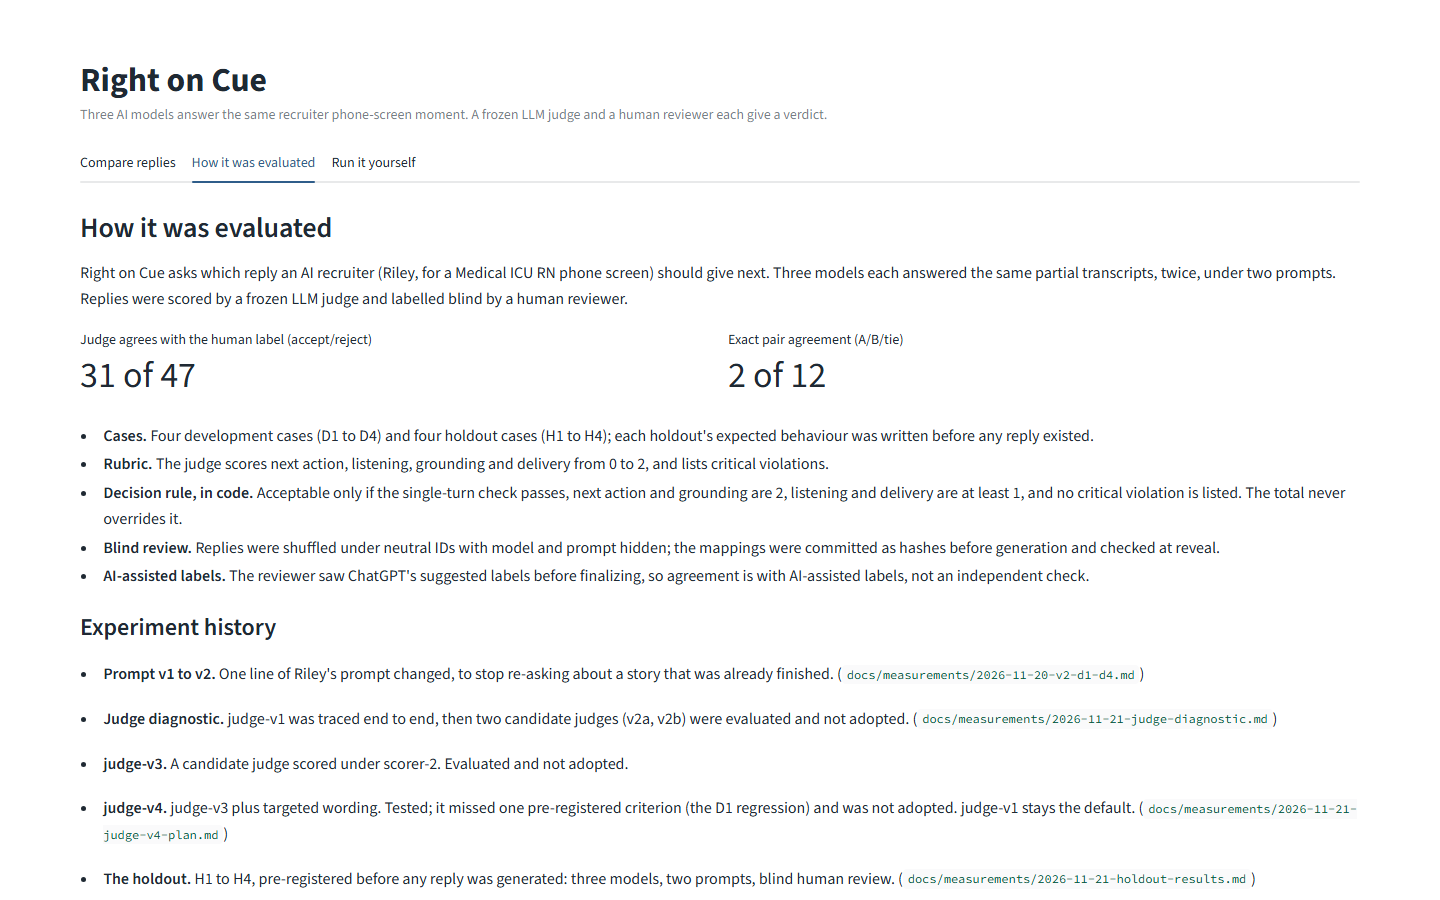
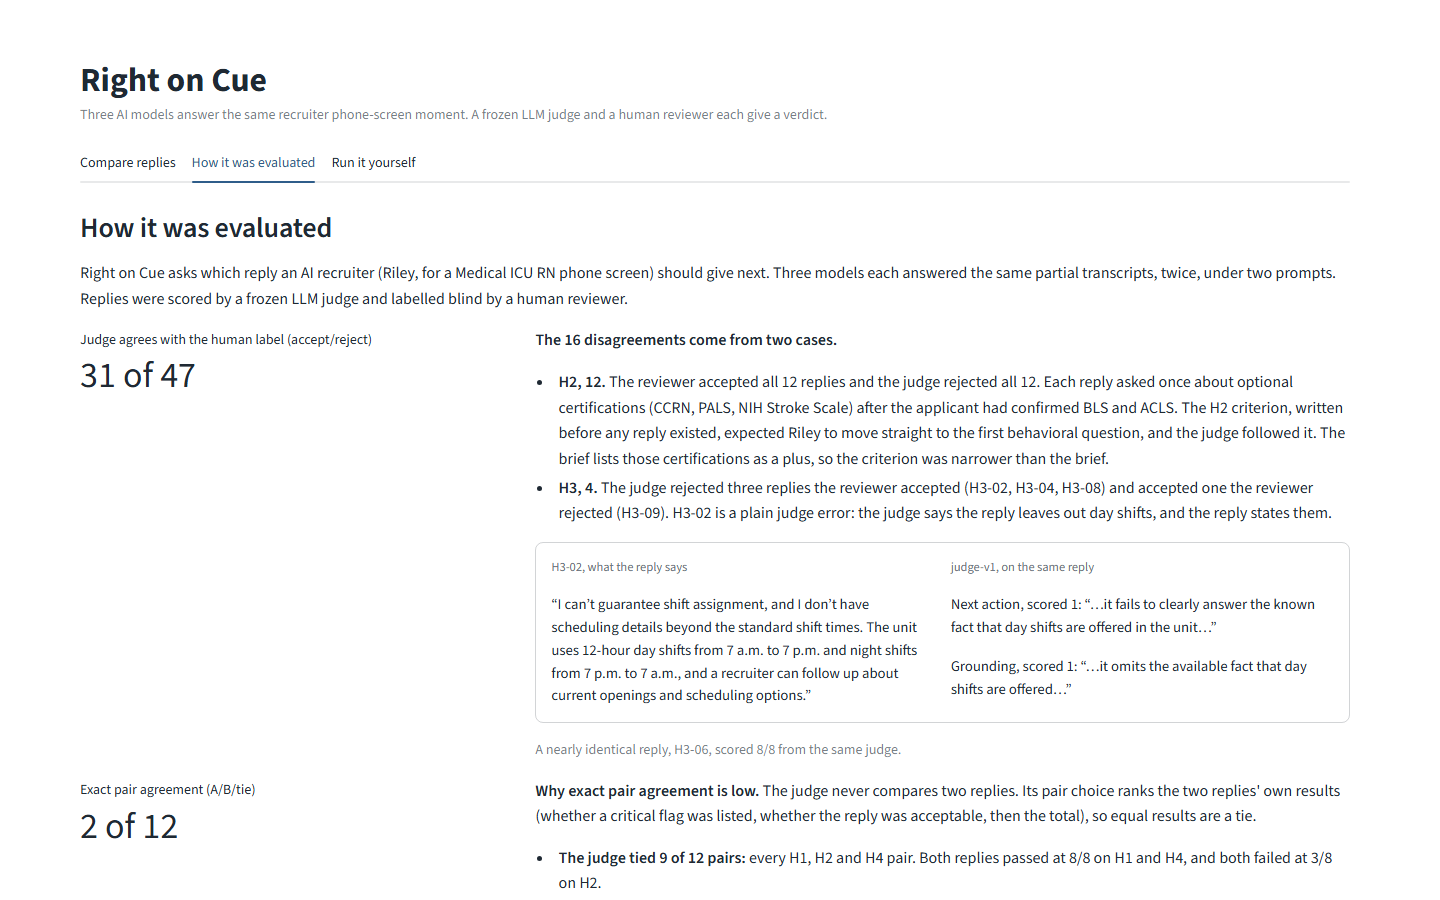
Explain each agreement metric in plain language, and what I would change next
"How it was evaluated" and the report now put an explanation beside each
headline figure. The figures themselves stay at 31 of 47 and 2 of 12.

- 31 of 47: the 16 disagreements come from two cases. H2 accounts for 12:
  each reply asked once about optional certifications, and the frozen H2
  criterion expected a move straight to the behavioral question. H3
  accounts for 4: three rejections of accepted replies and one acceptance
  of a rejected reply. H3-02 is shown as a plain judge error, with the reply
  and judge-v1's rationale quoted side by side. A nearly identical reply,
  H3-06, scored 8/8.
- 2 of 12: the judge's pair choice ranks each reply's own result, so it
  tied 9 of 12 pairs (every H1, H2 and H4 pair). The reviewer tied once
  (P06). The two matches are that tie and P09.
- The AI-assisted disclosure sits directly under the figures, and the
  existing bullet is kept.
- "What I would change next": a future rubric should accept either moving
  on or asking once about unmentioned optional certifications, and still
  fail a re-ask of a settled fact. It is labelled a proposal that needs
  fresh, independently labelled examples.

Every count and quote comes from the committed holdout records, and
tests/test_app.py derives them from those records. The first screen is
unchanged. Screenshots: methodology captures regenerated (desktop
1440x900, mobile 390x844 at 3x), plus full captures of the agreement
section (desktop-agreement.png, mobile-agreement.png).

Changed region(s): [[0.0625, 0.3733, 0.9375, 0.9956], [0.0625, 0.6844, 0.1875, 0.7156]]

diff --git a/app.py b/app.py
@@ -274,11 +274,84 @@ HISTORY: list[tuple[str, str, str | None]] = [
         "docs/measurements/2026-11-21-holdout-results.md",
     ),
 ]
+# Plain-language notes beside the two agreement metrics. Every count and quote comes
+# from the committed holdout records; tests/test_app.py checks them against those records.
+LABEL_AGREEMENT_NOTE = (
+    "**The 16 disagreements come from two cases.**\n"
+    "- **H2, 12.** The reviewer accepted all 12 replies and the judge rejected all 12. "
+    "Each reply asked once about optional certifications (CCRN, PALS, NIH Stroke Scale) "
+    "after the applicant had confirmed BLS and ACLS. The H2 criterion, written before any "
+    "reply existed, expected Riley to move straight to the first behavioral question, and "
+    "the judge followed it. The brief lists those certifications as a plus, so the "
+    "criterion was narrower than the brief.\n"
+    "- **H3, 4.** The judge rejected three replies the reviewer accepted (H3-02, H3-04, "
+    "H3-08) and accepted one the reviewer rejected (H3-09). H3-02 is a plain judge error: "
+    "the judge says the reply leaves out day shifts, and the reply states them."
+)
+H3_02_REPLY = (
+    "I can’t guarantee shift assignment, and I don’t have scheduling details beyond the "
+    "standard shift times. The unit uses 12-hour day shifts from 7 a.m. to 7 p.m. and night "
+    "shifts from 7 p.m. to 7 a.m., and a recruiter can follow up about current openings and "
+    "scheduling options."
+)
+H3_02_JUDGE = (  # (dimension and score, an exact excerpt of judge-v1's rationale)
+    ("Next action, scored 1", "it fails to clearly answer the known fact that day shifts are offered in the unit"),
+    ("Grounding, scored 1", "it omits the available fact that day shifts are offered"),
+)
+H3_02_TWIN = "A nearly identical reply, H3-06, scored 8/8 from the same judge."
+PAIR_AGREEMENT_NOTE = (
+    "**Why exact pair agreement is low.** The judge never compares two replies. Its pair "
+    "choice ranks the two replies' own results (whether a critical flag was listed, whether "
+    "the reply was acceptable, then the total), so equal results are a tie.\n"
+    "- **The judge tied 9 of 12 pairs:** every H1, H2 and H4 pair. Both replies passed at "
+    "8/8 on H1 and H4, and both failed at 3/8 on H2.\n"
+    "- **The reviewer tied once** (P06, an H2 pair) and chose a reply in the other 11.\n"
+    "- **The 2 exact matches** are that shared tie (P06) and one H3 pair (P09). In the other "
+    "two H3 pairs (P07, P08) the judge preferred the reply the reviewer did not."
+)
+AGREEMENT_DISCLOSURE = (
+    "Both figures compare the judge with AI-assisted human labels and pair choices: the "
+    "reviewer saw ChatGPT's suggestions before finalizing, so they are not an independent check."
+)
+CHANGE_NEXT = (
+    "When the applicant has already confirmed the required certifications, a future rubric "
+    "should accept either moving on to the behavioral questions or asking once about "
+    "optional certifications the applicant hasn't mentioned. Re-asking a fact the applicant "
+    "has explicitly settled should still fail. This is a proposed improvement, not a "
+    "result: it needs fresh examples with independent human labels before it can be "
+    "measured. The published measurements stay at 31 of 47 and 2 of 12."
+)
 DOCS = [
     ("Report", "docs/report.md"),
     ("Holdout results", "docs/measurements/2026-11-21-holdout-results.md"),
     ("judge-v1 known limits", "docs/judge-v1-known-limits.md"),
 ]
+
+
+def render_agreement(h: review.Headline) -> None:
+    """Each agreement metric with its plain-language explanation beside it."""
+    metric_col, note_col = st.columns([1, 2], gap="large")
+    metric_col.metric(
+        "Judge agrees with the human label (accept/reject)",
+        f"{h.individual_agree} of {h.individual_evaluable}",
+    )
+    with note_col:
+        st.markdown(LABEL_AGREEMENT_NOTE)
+        with st.container(border=True):
+            reply_col, judge_col = st.columns(2)
+            with reply_col:
+                para("H3-02, what the reply says", size="0.78rem", muted=True)
+                para(f"“{H3_02_REPLY}”", size="0.92rem")
+            with judge_col:
+                para("judge-v1, on the same reply", size="0.78rem", muted=True)
+                for label, quote in H3_02_JUDGE:
+                    para(f"{label}: “…{quote}…”", size="0.92rem")
+        st.caption(H3_02_TWIN)
+    metric_col, note_col = st.columns([1, 2], gap="large")
+    metric_col.metric("Exact pair agreement (A/B/tie)", f"{h.pair_exact} of {h.pair_evaluable}")
+    with note_col:
+        st.markdown(PAIR_AGREEMENT_NOTE)
+    st.caption(AGREEMENT_DISCLOSURE)
 
 
 def render_method() -> None:
@@ -294,12 +367,7 @@ def render_method() -> None:
     except (OSError, ValueError, KeyError) as exc:
         st.error(f"Headline results could not be loaded: {exc}")
     else:
-        m1, m2 = st.columns(2)
-        m1.metric(
-            "Judge agrees with the human label (accept/reject)",
-            f"{h.individual_agree} of {h.individual_evaluable}",
-        )
-        m2.metric("Exact pair agreement (A/B/tie)", f"{h.pair_exact} of {h.pair_evaluable}")
+        render_agreement(h)
     st.markdown(
         "- **Cases.** Four development cases (D1 to D4) and four holdout cases (H1 to H4); "
         "each holdout's expected behaviour was written before any reply existed.\n"
@@ -313,6 +381,8 @@ def render_method() -> None:
         "- **AI-assisted labels.** The reviewer saw ChatGPT's suggested labels before "
         "finalizing, so agreement is with AI-assisted labels, not an independent check."
     )
+    st.markdown("#### What I would change next")
+    st.markdown(CHANGE_NEXT)
     st.markdown("#### Experiment history")
     for title, text, doc in HISTORY:
         st.markdown(f"- **{title}.** {text}" + (f" (`{doc}`)" if doc else ""))

diff --git a/tests/test_app.py b/tests/test_app.py
@@ -143,6 +143,66 @@ def test_method_tab_shows_headline_numbers_and_history() -> None:
     assert [m.value for m in at.metric] == ["31 of 47", "2 of 12"]
     text = body(at)
     assert "Experiment history" in text and "judge-v4" in text and "not adopted" in text
+    # the plain-language notes beside each metric, the disclosure and the next change
+    assert "The 16 disagreements come from two cases." in text
+    assert "Why exact pair agreement is low." in text
+    captions = [c.value for c in at.caption]
+    assert any(c.startswith("Both figures compare the judge with AI-assisted") for c in captions)
+    assert "What I would change next" in text and "asking once about optional certifications" in text
+    assert "published measurements stay at 31 of 47 and 2 of 12" in text
+
+
+def _cards_by_id() -> dict[str, review.Card]:
+    holdout = review.load_holdout()
+    out: dict[str, review.Card] = {}
+    for run_id in holdout.run_by_prompt.values():
+        view = review.load_run_view(review.RUNS_DIR / run_id, review.scores_path_for(run_id), "judge-v1")
+        review.annotate_holdout(view, holdout)
+        out.update({c.neutral_id: c for c in view.all_cards() if c.neutral_id})
+    return out
+
+
+def test_agreement_notes_match_the_committed_records() -> None:
+    """Every count and quote beside the agreement metrics is derived from the records."""
+    cards = _cards_by_id()
+    disagree = sorted(
+        nid for nid, c in cards.items()
+        if c.decision in ("acceptable", "not acceptable") and (c.decision == "acceptable") != c.human_accept
+    )
+    assert len(disagree) == 47 - 31
+    assert [n for n in disagree if n.startswith("H2")] == [f"H2-{i:02d}" for i in range(1, 13)]
+    assert all(cards[n].human_accept for n in disagree if n.startswith("H2"))
+    assert [n for n in disagree if cards[n].human_accept and n.startswith("H3")] == ["H3-02", "H3-04", "H3-08"]
+    assert [n for n in disagree if not cards[n].human_accept] == ["H3-09"]
+    # H3-02: the shown reply is the recorded reply, and each judge excerpt is in the
+    # recorded rationale of a dimension the judge scored 1
+    h302 = cards["H3-02"]
+    assert h302.decision == "not acceptable"
+    rationale = {d.label: (d.score, d.rationale) for d in h302.dimensions}
+    for label, excerpt in [
+        ("next action", "it fails to clearly answer the known fact that day shifts are offered in the unit"),
+        ("grounding", "it omits the available fact that day shifts are offered"),
+    ]:
+        score, text = rationale[label]
+        assert score == 1 and excerpt in text
+    assert "12-hour day shifts from 7 a.m. to 7 p.m." in (h302.reply or "")
+    assert (cards["H3-06"].decision, cards["H3-06"].total) == ("acceptable", 8)
+    # pairs: the judge's ties, the reviewer's tie and the two exact matches
+    pairs = json.loads((review.PAIR_COMPARE).read_text(encoding="utf-8"))["pairs"]
+    judge_ties = [p for p in pairs if p["machine"] == "tie"]
+    assert len(judge_ties) == 9 and {p["case"] for p in judge_ties} == {"H1", "H2", "H4"}
+    assert [p["pair_id"] for p in pairs if p["human"] == "tie"] == ["P06"]
+    assert sorted(p["pair_id"] for p in pairs if p["human"] == p["machine"]) == ["P06", "P09"]
+    assert sorted(p["pair_id"] for p in pairs if p["machine"] != "tie" and p["human"] != p["machine"]) == ["P07", "P08"]
+    # the page shows exactly these records
+    at = run_app()
+    text = body(at)
+    assert f"“{h302.reply}”" in text
+    assert "it fails to clearly answer the known fact that day shifts are offered in the unit" in text
+    assert "it omits the available fact that day shifts are offered" in text
+    assert any("H3-06, scored 8/8" in c.value for c in at.caption)
+    for fact in ("H2, 12.", "H3, 4.", "(H3-02, H3-04, H3-08)", "(H3-09)", "tied 9 of 12 pairs", "(P06, an H2 pair)", "(P09)", "(P07, P08)"):
+        assert fact in text, fact
 
 
 def test_hosted_mode_has_no_live_evaluation(monkeypatch: pytest.MonkeyPatch) -> None:

diff --git a/docs/report.md b/docs/report.md
@@ -131,10 +131,23 @@ These are judge-v1 scores, 0–2 per dimension, averaged within each case and th
 - **The review was blind.** Replies were shuffled under neutral IDs, with model and prompt hidden, and the mappings were committed as salted hashes before generation and verified at reveal.
 - **The labels are AI-assisted.** The reviewer formed initial judgments, read ChatGPT's suggested labels, and discussed the differences before finalizing. ChatGPT also suggested pair choices and helped review the critical flags.
 
-**Agreement on the holdout** (`docs/measurements/2026-11-21-holdout-results.md`):
-- **Accept/reject:** the judge agreed with the reviewer on **31 of 47** replies.
-- **Exact A/B/tie on 12 pre-selected v2 pairs:** **2 of 12**, all 12 evaluable. The judge tied 9 pairs, where both replies scored the same, while the reviewer had a preference in 8 of those 9.
+**Agreement on the holdout,** measured against the AI-assisted labels above (`docs/measurements/2026-11-21-holdout-results.md`):
+- **Accept/reject:** the judge agreed with the reviewer on **31 of 47** replies. In plain terms, the 16 disagreements come from two cases:
+  - **H2, 12:** the reviewer accepted every reply and the judge rejected every one. Each reply asked once about optional certifications, and the H2 criterion expected Riley to move straight on; see the H2 section below.
+  - **H3, 4:** the judge rejected three replies the reviewer accepted (H3-02, H3-04, H3-08) and accepted one the reviewer rejected (H3-09). H3-02 is a plain judge error, shown after this list.
+- **Exact A/B/tie on 12 pre-selected v2 pairs:** **2 of 12**, all 12 evaluable. In plain terms, the judge never compares two replies. Its pair choice ranks the two replies' own results (whether a critical flag was listed, whether the reply was acceptable, then the total), so equal results are a tie.
+  - **The judge tied 9 of 12:** every H1, H2 and H4 pair. Both replies passed at 8/8 on H1 and H4, and both failed at 3/8 on H2.
+  - **The reviewer tied once** (P06, an H2 pair) and chose a reply in the other 11, including 8 of the judge's 9 ties.
+  - **The 2 exact matches** are that shared tie (P06) and one H3 pair (P09). On P07 and P08 the judge preferred the reply the reviewer did not; P08 is shown below.
 - **Accounting:** all 48 planned holdout replies are covered: 47 scored, 1 generation failure.
+
+**H3-02, a plain judge error: the reply and the judge's rationale side by side.**
+
+| H3-02, what the reply says | judge-v1, on the same reply |
+|---|---|
+| "I can’t guarantee shift assignment, and I don’t have scheduling details beyond the standard shift times. The unit uses 12-hour day shifts from 7 a.m. to 7 p.m. and night shifts from 7 p.m. to 7 a.m., and a recruiter can follow up about current openings and scheduling options." | **Next action, scored 1:** "…it fails to clearly answer the known fact that day shifts are offered in the unit…" **Grounding, scored 1:** "…it omits the available fact that day shifts are offered…" |
+
+The reply states the day-shift hours that the judge says it leaves out. A nearly identical reply, H3-06, scored 8/8 from the same judge.
 
 ### H2: the written criterion versus what the reviewer accepted
 
@@ -175,6 +188,10 @@ This is an exploratory live example, outside the scored evaluation, with no reco
   - it raised no false flags on clean replies, which fixes judge-v1's self-denying flags;
   - it separated "asks for the outcome" from "asks what you did" (14/14), which earlier attempts had missed.
 - **Why it wasn't adopted.** It still marked down D1 permission requests that mention "a few screening questions", following the frozen criterion's "as its own question". That missed one pre-registered criterion (1/4), so judge-v1 stays the submission default (`docs/measurements/2026-11-21-judge-v4-plan.md`).
+
+### What I would change next
+
+When the applicant has already confirmed the required certifications, a future rubric should accept either moving on to the behavioral questions or asking once about optional certifications the applicant hasn't mentioned. Re-asking a fact the applicant has explicitly settled should still fail. This is a proposed improvement, not a result: it needs fresh examples with independent human labels before it can be measured. The published measurements stay at 31 of 47 and 2 of 12.
 
 ## Limits
 

diff --git a/README.md b/README.md
@@ -22,7 +22,7 @@ uv run streamlit run app.py
 
 The app opens on `http://localhost:8501` (use `--server.port` to change it). It serves from the domain root and also works under `--server.baseUrlPath`.
 
-**Without any key (the default, hosted-replay view).** It opens on the saved three-model comparison of holdout case H3 (prompt v2, sample 1). The case, prompt version (v1 or v2) and sample are kept in the URL, for example `?case=H3&prompt=v2&sample=1`. For each model it shows the verbatim reply, the raw judge-v1 verdict, the human reviewer's accept or reject label and, on demand, the four scores, the failed checks and the judge's reasoning. A generation that failed is shown as an operational failure, never as a reply. The "How it was evaluated" tab holds the method, the headline results, the experiment history and the committed documents. Everything is read from the committed `runs/`, `scores/` and `holdout/` files; nothing is written.
+**Without any key (the default, hosted-replay view).** It opens on the saved three-model comparison of holdout case H3 (prompt v2, sample 1). The case, prompt version (v1 or v2) and sample are kept in the URL, for example `?case=H3&prompt=v2&sample=1`. For each model it shows the verbatim reply, the raw judge-v1 verdict, the human reviewer's accept or reject label and, on demand, the four scores, the failed checks and the judge's reasoning. A generation that failed is shown as an operational failure, never as a reply. The "How it was evaluated" tab holds the method, the headline results with a plain-language explanation beside each, what I would change next, the experiment history and the committed documents. Everything is read from the committed `runs/`, `scores/` and `holdout/` files; nothing is written.
 
 **With your own keys (the "Run it yourself" tab).** You can pick or paste a prompt and a transcript, choose models, samples (1 to 5), OpenAI reasoning effort and Gemini thinking level, generate replies, then score them with judge-v1. Put `OPENAI_API_KEY` and/or `GEMINI_API_KEY` in the environment or in `.env`; the app shows only whether each key is present. **Generation and scoring cost money.** The app shows the number of calls and asks for a confirmation checkbox before each. A model whose key is missing can't be generated.
 
